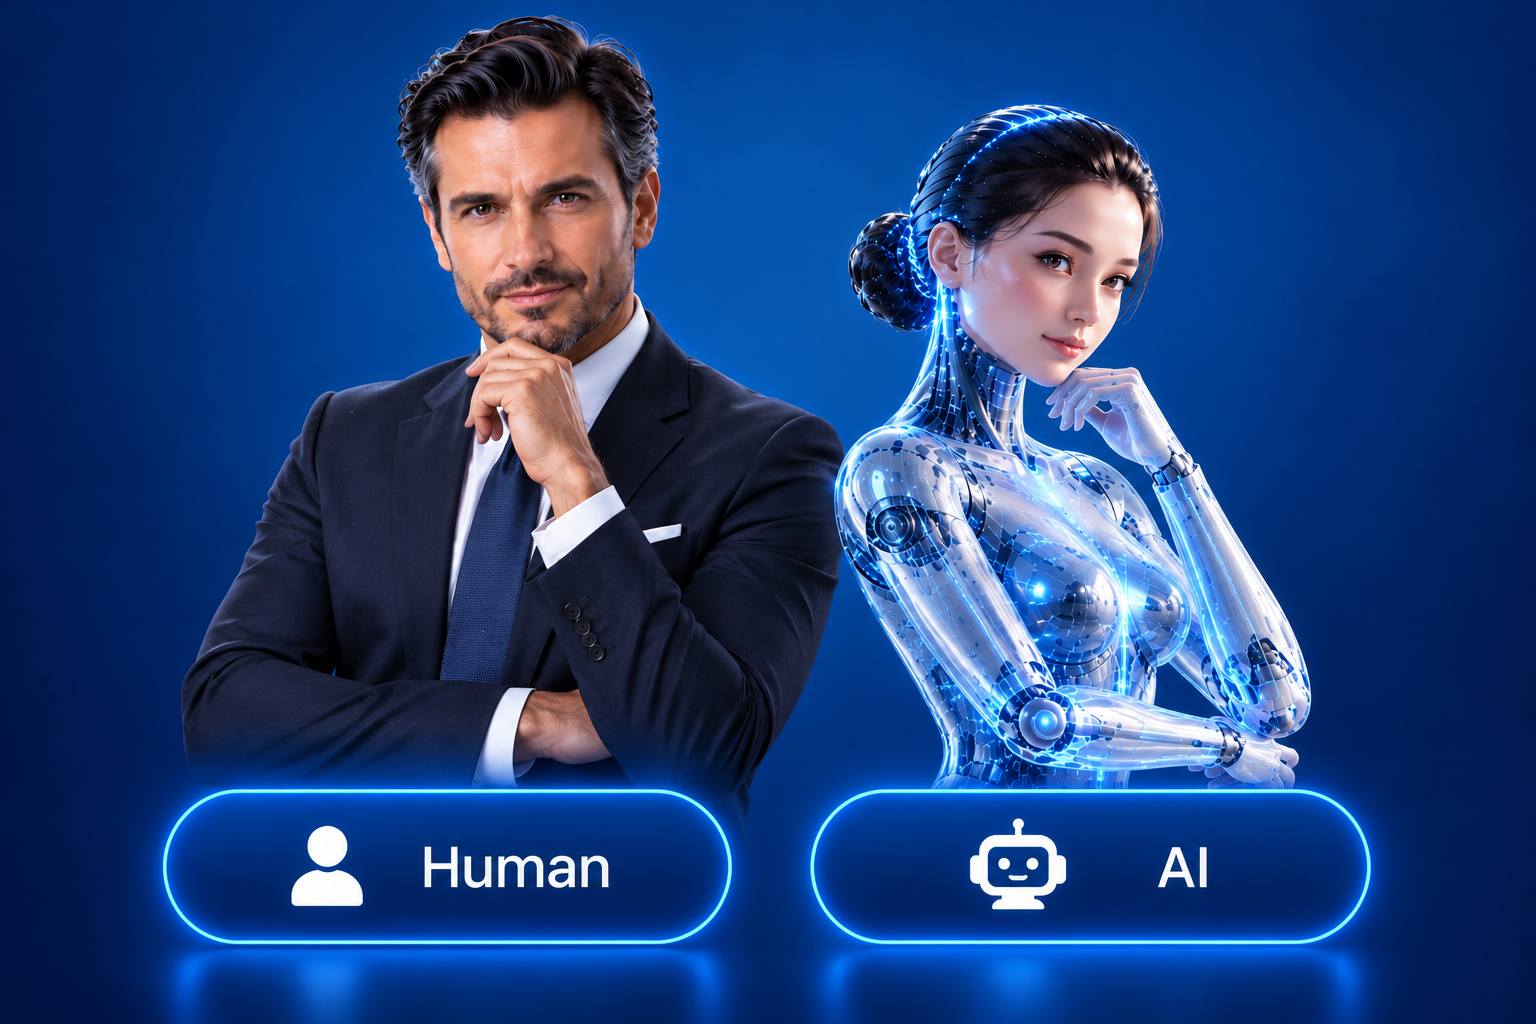
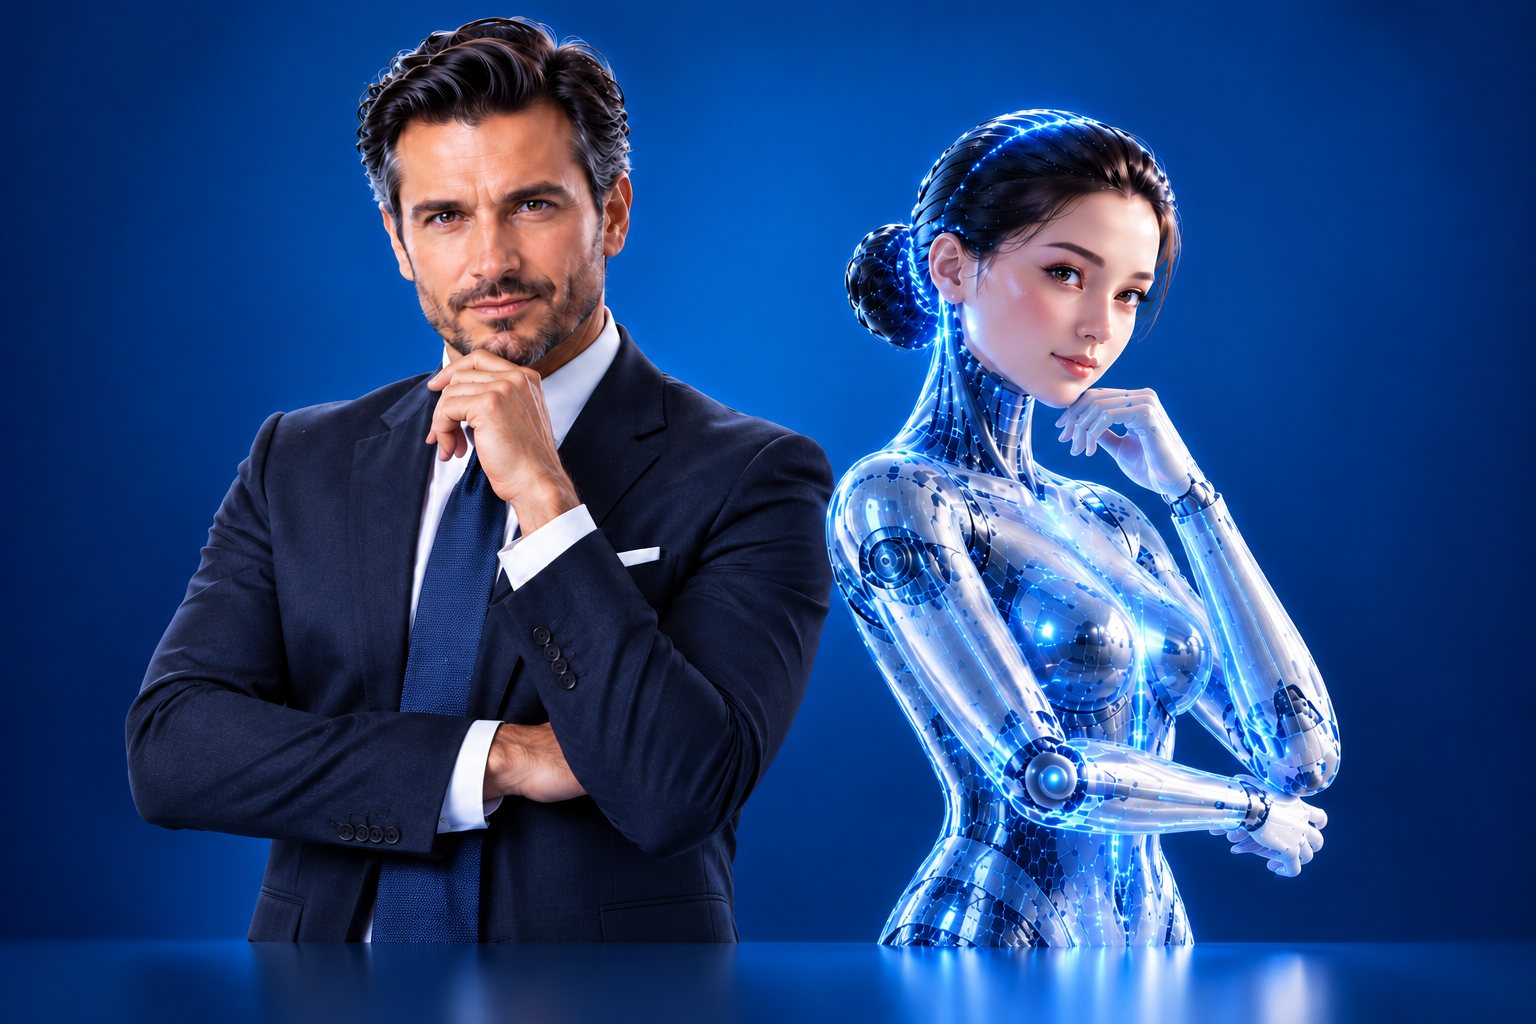
End of the Day changes

diff --git a/Lotka/wwwroot/css/site.css b/Lotka/wwwroot/css/site.css
@@ -247,6 +247,13 @@ body.lotka-dark-theme {
     transition: filter 0.3s ease;
 }
 
+.lotka-fullwidth-hero,
+.lotka-about-hero-section,
+.lotka-faq-hero,
+.fullwidth-image-wrapper {
+    background-color: #0a2246;
+}
+
 /* ── Remove all dull dark overlays so images are completely vibrant & attractive ── */
 .fullwidth-hero-overlay,
 .fullwidth-hero-overlay-about,
@@ -394,35 +401,6 @@ body.lotka-dark-theme {
     .about-era-pill .era-desc { font-size: 0.52rem; }
 }
 
-/* FAQ Page Specific Hero & Sharp Image Presentation */
-.lotka-faq-hero {
-    position: relative;
-    width: 100%;
-    height: 100%;
-    max-width: 1600px;
-    margin: 0 auto;
-    background: #0a2246;
-    overflow: hidden;
-    display: flex;
-    align-items: center;
-    justify-content: center;
-}
-.faq-hero-img {
-    width: 100%;
-    height: 100%;
-    display: block;
-    object-fit: contain;
-    object-position: center center;
-    filter: contrast(1.05) saturate(1.08) brightness(1.02);
-    image-rendering: -webkit-optimize-contrast;
-}
-@media (min-width: 1200px) {
-    .faq-hero-img {
-        object-fit: cover;
-        object-position: center center;
-    }
-}
-
 /* ── FAQ AI Buzzer Hotspot (Over the Red Buzzer on Desk) ── */
 .faq-ai-buzzer-hotspot {
     position: absolute;
@@ -467,6 +445,60 @@ body.lotka-dark-theme {
     100% {
         box-shadow: 0 0 0 0 rgba(239, 68, 68, 0);
     }
+}
+
+/* ── FAQ Title & Subtitle Split Overlay (Left & Right on Desktop) ── */
+.faq-title-overlay {
+    position: absolute;
+    top: 6%;
+    left: 4%;
+    right: 4%;
+    display: flex;
+    justify-content: space-between;
+    align-items: flex-start;
+    z-index: 15;
+    pointer-events: none;
+}
+.faq-title-left {
+    max-width: 580px;
+    text-align: left;
+    pointer-events: auto;
+}
+.faq-title-left h2 {
+    font-family: var(--font-heading);
+    font-size: 2.1rem;
+    font-weight: 800;
+    color: #fff;
+    text-shadow: 0 3px 16px rgba(0,0,0,0.85), 0 0 30px rgba(0,0,0,0.5);
+    margin: 0;
+    line-height: 1.25;
+}
+.faq-title-left h2 .text-accent {
+    color: #ef4444;
+}
+.faq-title-right {
+    text-align: right;
+    display: flex;
+    flex-direction: column;
+    align-items: flex-end;
+    pointer-events: auto;
+}
+.faq-title-right .about-subtitle {
+    font-size: 0.92rem;
+    font-weight: 700;
+    color: rgba(255, 255, 255, 0.92);
+    text-transform: uppercase;
+    letter-spacing: 2.2px;
+    margin-top: 6px;
+    text-shadow: 0 2px 10px rgba(0, 0, 0, 0.9);
+}
+.faq-title-right .about-subtitle-bar {
+    width: 44px;
+    height: 3px;
+    background: #38bdf8;
+    margin: 8px 0 0 auto;
+    border-radius: 2px;
+    box-shadow: 0 0 8px rgba(56, 189, 248, 0.6);
 }
 
 /* ── FAQ Floating Action / Trigger Bar ── */
@@ -824,6 +856,25 @@ body.lotka-dark-theme {
     .about-heritage-card h2, .about-ai-card h2 {
         font-size: 1.15rem !important;
     }
+
+    /* FAQ Tablet Sizing */
+    .faq-title-overlay {
+        top: 4%;
+        left: 3%;
+        right: 3%;
+    }
+    .faq-title-left h2 {
+        font-size: 1.45rem;
+        max-width: 420px;
+    }
+    .faq-title-right .about-subtitle {
+        font-size: 0.78rem;
+        letter-spacing: 1.5px;
+    }
+    .faq-title-right .about-subtitle-bar {
+        width: 36px;
+        height: 2px;
+    }
 }
 
 /* Mobile (< 768px) */
@@ -899,6 +950,39 @@ body.lotka-dark-theme {
 
     .glass-panel { backdrop-filter: blur(8px); }
     .mobile-drawer-cta .btn { font-size: .88rem; }
+
+    /* FAQ Mobile Sizing */
+    .faq-title-overlay {
+        top: 3%;
+        left: 12px;
+        right: 12px;
+        flex-direction: column;
+        align-items: center;
+        text-align: center;
+        gap: 6px;
+    }
+    .faq-title-left {
+        max-width: 100%;
+        text-align: center;
+    }
+    .faq-title-left h2 {
+        font-size: 1.15rem;
+        line-height: 1.3;
+    }
+    .faq-title-right {
+        text-align: center;
+        align-items: center;
+    }
+    .faq-title-right .about-subtitle {
+        font-size: 0.72rem;
+        letter-spacing: 1.2px;
+        margin-top: 2px;
+    }
+    .faq-title-right .about-subtitle-bar {
+        width: 32px;
+        height: 2px;
+        margin: 5px auto 0 auto;
+    }
 }
 
 /* Extra small (< 480px) */
@@ -912,5 +996,13 @@ body.lotka-dark-theme {
     .btn-lotka-ai-buzzer {
         font-size: 0.76rem;
         padding: 7px 14px;
+    }
+
+    /* FAQ Extra Small */
+    .faq-title-left h2 {
+        font-size: 1.05rem;
+    }
+    .faq-title-right .about-subtitle {
+        font-size: 0.65rem;
     }
 }
